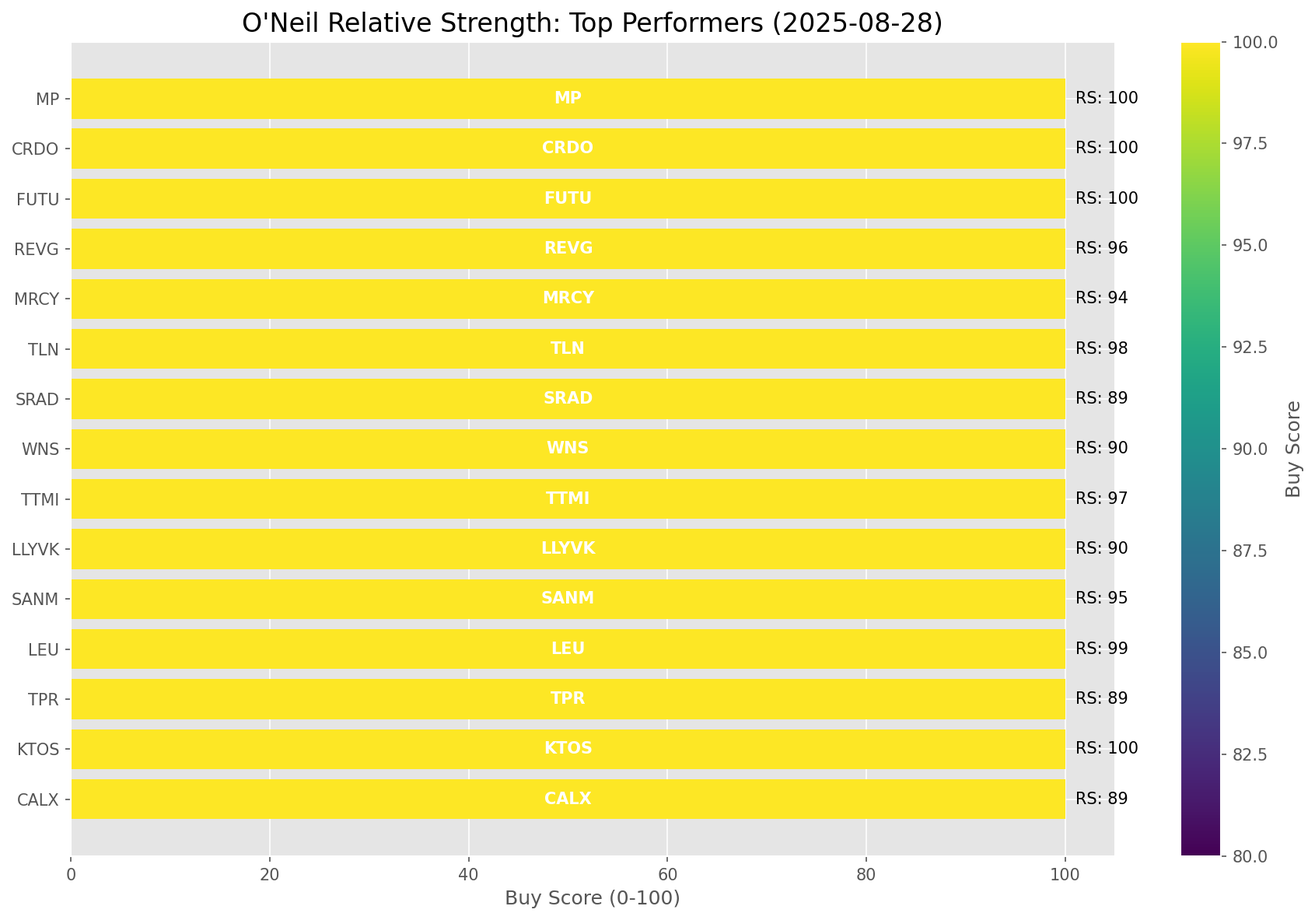
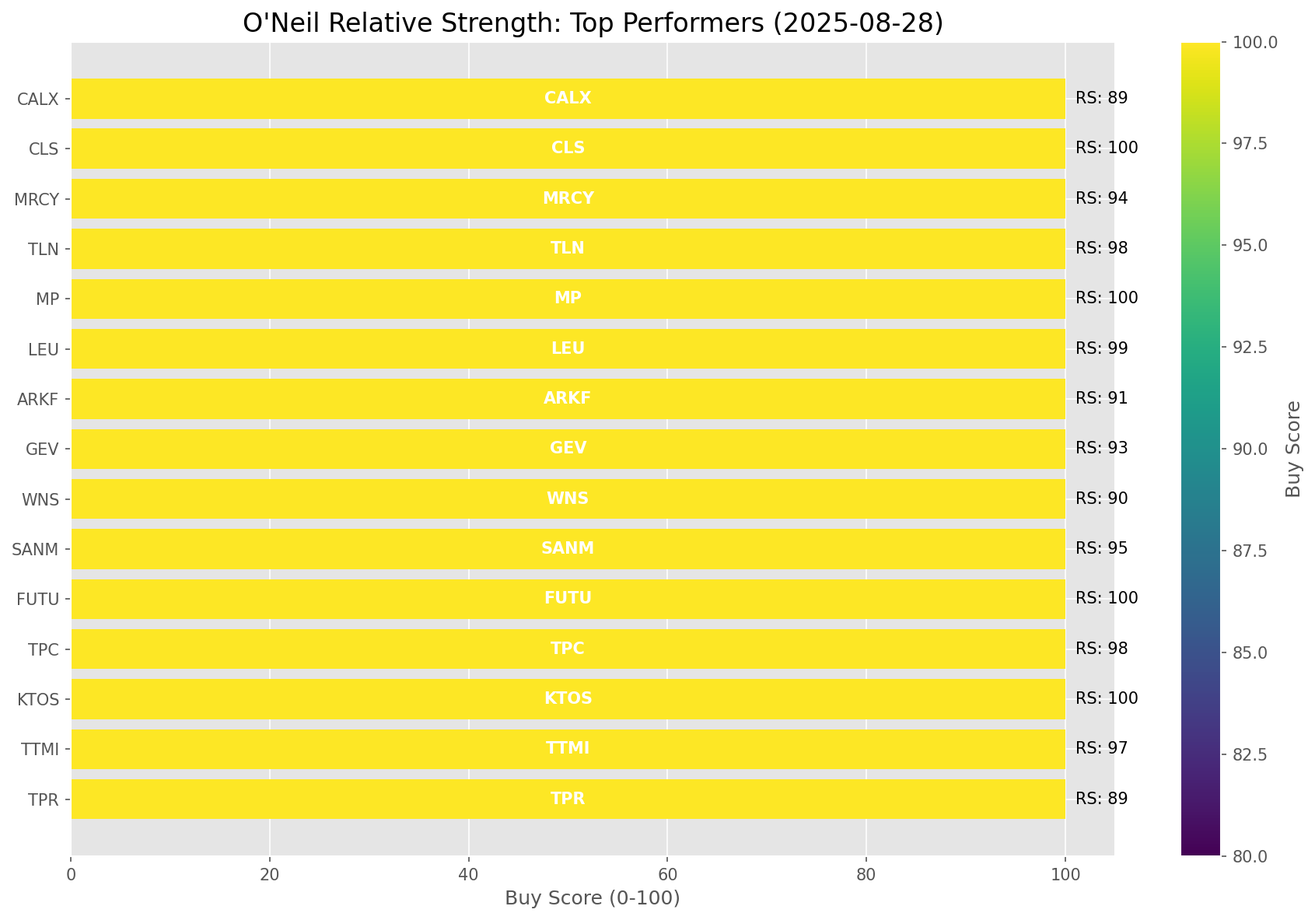
Add market report for 2025-08-28

diff --git a/oneil_relative_strength_report_2025-08-28.md b/oneil_relative_strength_report_2025-08-28.md
@@ -9,11 +9,11 @@
 | Metric | Value |
 |--------|-------|
 | **Market Valuation** | **Overvalued** |
-| **Current Ratio** | 10.51 |
+| **Current Ratio** | 10.52 |
 | **Historical Mean** | 9.94 |
 | **Standard Deviation** | 0.38 |
 | **Z-Score (StdDev from Mean)** | 1.49 |
-| **Total Market Cap** | $318.87 trillion |
+| **Total Market Cap** | $319.36 trillion |
 | **GDP** | $30.35 trillion |
 
 ## **Market Insights**
@@ -49,41 +49,41 @@ Based on William O'Neil's Relative Strength Methodology
 
 | ETF | Strength | RS Rating | Performance | Above Key MAs | Trend | Sector |
 |-----|----------|-----------|-------------|--------------|-------|--------|
-| [ARKK](https://www.tradingview.com/chart/?symbol=ARKK) | 96.0 | 92.0 | 34.79% | 10d ✓, 50d ✓, 200d ✓ | ↗ | Innovation |
+| [ARKK](https://www.tradingview.com/chart/?symbol=ARKK) | 96.0 | 92.0 | 34.39% | 10d ✓, 50d ✓, 200d ✓ | ↗ | Innovation |
+| [ARKF](https://www.tradingview.com/chart/?symbol=ARKF) | 95.5 | 91.0 | 32.21% | 10d ✓, 50d ✓, 200d ✓ | ↗ | Fintech Innovation |
 | [ARKW](https://www.tradingview.com/chart/?symbol=ARKW) | 94.5 | 89.0 | 29.50% | 10d ✓, 50d ✓, 200d ✓ | ↗ | Next Generation Internet |
-| [URA](https://www.tradingview.com/chart/?symbol=URA) | 92.5 | 85.0 | 25.36% | 10d ✓, 50d ✓, 200d ✓ | ↗ | Uranium |
-| [SOXX](https://www.tradingview.com/chart/?symbol=SOXX) | 90.0 | 80.0 | 20.62% | 10d ✓, 50d ✓, 200d ✓ | ↗ | Semiconductors |
-| [BLOK](https://www.tradingview.com/chart/?symbol=BLOK) | 90.0 | 80.0 | 20.83% | 10d ✓, 50d ✓, 200d ✓ | ↗ | Blockchain & Cryptocurrency |
-| [SLV](https://www.tradingview.com/chart/?symbol=SLV) | 87.0 | 74.0 | 16.63% | 10d ✓, 50d ✓, 200d ✓ | ↗ | Silver |
-| [ICLN](https://www.tradingview.com/chart/?symbol=ICLN) | 85.5 | 71.0 | 14.99% | 10d ✓, 50d ✓, 200d ✓ | ↗ | Clean Energy |
-| [JETS](https://www.tradingview.com/chart/?symbol=JETS) | 85.5 | 71.0 | 15.04% | 10d ✓, 50d ✓, 200d ✓ | ↗ | Airlines |
-| [XLK](https://www.tradingview.com/chart/?symbol=XLK) | 85.0 | 70.0 | 14.33% | 10d ✓, 50d ✓, 200d ✓ | ↗ | Technology |
-| [ARKF](https://www.tradingview.com/chart/?symbol=ARKF) | 84.6 | 89.0 | 29.84% | 10d ✗, 50d ✓, 200d ✓ | ↗ | Fintech Innovation |
-| [PAVE](https://www.tradingview.com/chart/?symbol=PAVE) | 83.0 | 66.0 | 12.71% | 10d ✓, 50d ✓, 200d ✓ | ↗ | Infrastructure |
-| [AIQ](https://www.tradingview.com/chart/?symbol=AIQ) | 82.5 | 65.0 | 11.97% | 10d ✓, 50d ✓, 200d ✓ | ↗ | Artificial Intelligence & Technology |
+| [URA](https://www.tradingview.com/chart/?symbol=URA) | 93.0 | 86.0 | 26.60% | 10d ✓, 50d ✓, 200d ✓ | ↗ | Uranium |
+| [SOXX](https://www.tradingview.com/chart/?symbol=SOXX) | 90.5 | 81.0 | 20.84% | 10d ✓, 50d ✓, 200d ✓ | ↗ | Semiconductors |
+| [BLOK](https://www.tradingview.com/chart/?symbol=BLOK) | 90.5 | 81.0 | 20.83% | 10d ✓, 50d ✓, 200d ✓ | ↗ | Blockchain & Cryptocurrency |
+| [SLV](https://www.tradingview.com/chart/?symbol=SLV) | 87.0 | 74.0 | 16.55% | 10d ✓, 50d ✓, 200d ✓ | ↗ | Silver |
+| [ICLN](https://www.tradingview.com/chart/?symbol=ICLN) | 86.0 | 72.0 | 15.15% | 10d ✓, 50d ✓, 200d ✓ | ↗ | Clean Energy |
+| [JETS](https://www.tradingview.com/chart/?symbol=JETS) | 85.5 | 71.0 | 14.78% | 10d ✓, 50d ✓, 200d ✓ | ↗ | Airlines |
+| [XLK](https://www.tradingview.com/chart/?symbol=XLK) | 85.5 | 71.0 | 14.73% | 10d ✓, 50d ✓, 200d ✓ | ↗ | Technology |
+| [AIQ](https://www.tradingview.com/chart/?symbol=AIQ) | 83.0 | 66.0 | 12.15% | 10d ✓, 50d ✓, 200d ✓ | ↗ | Artificial Intelligence & Technology |
+| [PAVE](https://www.tradingview.com/chart/?symbol=PAVE) | 83.0 | 66.0 | 12.39% | 10d ✓, 50d ✓, 200d ✓ | ↗ | Infrastructure |
 | [IYZ](https://www.tradingview.com/chart/?symbol=IYZ) | 80.5 | 61.0 | 10.46% | 10d ✓, 50d ✓, 200d ✓ | ↗ | Telecommunications |
-| [XLC](https://www.tradingview.com/chart/?symbol=XLC) | 80.0 | 60.0 | 10.16% | 10d ✓, 50d ✓, 200d ✓ | ↗ | Communications |
-| [XLY](https://www.tradingview.com/chart/?symbol=XLY) | 78.0 | 56.0 | 8.67% | 10d ✓, 50d ✓, 200d ✓ | ↗ | Consumer Discretionary |
-| [XLI](https://www.tradingview.com/chart/?symbol=XLI) | 76.0 | 52.0 | 7.34% | 10d ✓, 50d ✓, 200d ✓ | ↗ | Industrial |
-| [XLF](https://www.tradingview.com/chart/?symbol=XLF) | 73.5 | 47.0 | 5.84% | 10d ✓, 50d ✓, 200d ✓ | ↗ | Financial |
-| [KWEB](https://www.tradingview.com/chart/?symbol=KWEB) | 71.6 | 63.0 | 11.25% | 10d ✗, 50d ✓, 200d ✓ | ↗ | Chinese Internet |
-| [CIBR](https://www.tradingview.com/chart/?symbol=CIBR) | 70.0 | 40.0 | 3.55% | 10d ✓, 50d ✓, 200d ✓ | ↗ | Cybersecurity |
-| [ARKG](https://www.tradingview.com/chart/?symbol=ARKG) | 68.5 | 77.0 | 18.98% | 10d ✓, 50d ✓, 200d ✓ | ↘ | Genomics |
-| [GLD](https://www.tradingview.com/chart/?symbol=GLD) | 68.5 | 37.0 | 2.70% | 10d ✓, 50d ✓, 200d ✓ | ↗ | Gold |
-| [DBA](https://www.tradingview.com/chart/?symbol=DBA) | 67.0 | 34.0 | 1.99% | 10d ✓, 50d ✓, 200d ✓ | ↗ | Agriculture |
-| [XLU](https://www.tradingview.com/chart/?symbol=XLU) | 62.1 | 44.0 | 4.92% | 10d ✗, 50d ✓, 200d ✓ | ↗ | Utilities |
-| [IBB](https://www.tradingview.com/chart/?symbol=IBB) | 62.0 | 64.0 | 11.64% | 10d ✓, 50d ✓, 200d ✓ | ↘ | Biotechnology |
-| [ITB](https://www.tradingview.com/chart/?symbol=ITB) | 61.1 | 82.0 | 22.54% | 10d ✗, 50d ✓, 200d ✓ | ↘ | Home Construction |
-| [IYT](https://www.tradingview.com/chart/?symbol=IYT) | 57.0 | 54.0 | 8.05% | 10d ✓, 50d ✓, 200d ✓ | ↘ | Transportation |
-| [XLE](https://www.tradingview.com/chart/?symbol=XLE) | 57.0 | 54.0 | 8.03% | 10d ✓, 50d ✓, 200d ✓ | ↘ | Energy |
-| [XLB](https://www.tradingview.com/chart/?symbol=XLB) | 54.5 | 49.0 | 6.38% | 10d ✓, 50d ✓, 200d ✓ | ↘ | Materials |
-| [IYR](https://www.tradingview.com/chart/?symbol=IYR) | 48.0 | 36.0 | 2.56% | 10d ✓, 50d ✓, 200d ✓ | ↘ | Real Estate |
-| [BIL](https://www.tradingview.com/chart/?symbol=BIL) | 42.5 | 25.0 | 0.03% | 10d ✓, 50d ✓, 200d ✓ | ↘ | Short-term Treasuries |
-| [DBC](https://www.tradingview.com/chart/?symbol=DBC) | 41.1 | 42.0 | 4.21% | 10d ✓, 50d ✗, 200d ✓ | ↘ | Commodities |
-| [TLT](https://www.tradingview.com/chart/?symbol=TLT) | 33.8 | 28.0 | 0.84% | 10d ✓, 50d ✓, 200d ✗ | ↘ | Long-term Treasuries |
-| [XLV](https://www.tradingview.com/chart/?symbol=XLV) | 28.4 | 37.0 | 2.77% | 10d ✗, 50d ✓, 200d ✗ | ↘ | Healthcare |
-| [UUP](https://www.tradingview.com/chart/?symbol=UUP) | 21.9 | 24.0 | -0.24% | 10d ✗, 50d ✓, 200d ✗ | ↘ | U.S. Dollar |
-| [XLP](https://www.tradingview.com/chart/?symbol=XLP) | 10.0 | 20.0 | -2.39% | 10d ✗, 50d ✗, 200d ✗ | ↘ | Consumer Staples |
+| [XLC](https://www.tradingview.com/chart/?symbol=XLC) | 80.5 | 61.0 | 10.20% | 10d ✓, 50d ✓, 200d ✓ | ↗ | Communications |
+| [XLY](https://www.tradingview.com/chart/?symbol=XLY) | 78.0 | 56.0 | 8.61% | 10d ✓, 50d ✓, 200d ✓ | ↗ | Consumer Discretionary |
+| [XLI](https://www.tradingview.com/chart/?symbol=XLI) | 75.5 | 51.0 | 7.18% | 10d ✓, 50d ✓, 200d ✓ | ↗ | Industrial |
+| [XLF](https://www.tradingview.com/chart/?symbol=XLF) | 73.5 | 47.0 | 5.73% | 10d ✓, 50d ✓, 200d ✓ | ↗ | Financial |
+| [KWEB](https://www.tradingview.com/chart/?symbol=KWEB) | 72.1 | 64.0 | 11.31% | 10d ✗, 50d ✓, 200d ✓ | ↗ | Chinese Internet |
+| [CIBR](https://www.tradingview.com/chart/?symbol=CIBR) | 70.5 | 41.0 | 3.61% | 10d ✓, 50d ✓, 200d ✓ | ↗ | Cybersecurity |
+| [GLD](https://www.tradingview.com/chart/?symbol=GLD) | 69.0 | 38.0 | 2.71% | 10d ✓, 50d ✓, 200d ✓ | ↗ | Gold |
+| [ARKG](https://www.tradingview.com/chart/?symbol=ARKG) | 68.5 | 77.0 | 18.10% | 10d ✓, 50d ✓, 200d ✓ | ↘ | Genomics |
+| [DBA](https://www.tradingview.com/chart/?symbol=DBA) | 67.5 | 35.0 | 1.99% | 10d ✓, 50d ✓, 200d ✓ | ↗ | Agriculture |
+| [XLU](https://www.tradingview.com/chart/?symbol=XLU) | 62.1 | 44.0 | 4.77% | 10d ✗, 50d ✓, 200d ✓ | ↗ | Utilities |
+| [ITB](https://www.tradingview.com/chart/?symbol=ITB) | 61.1 | 82.0 | 22.35% | 10d ✗, 50d ✓, 200d ✓ | ↘ | Home Construction |
+| [XLE](https://www.tradingview.com/chart/?symbol=XLE) | 57.5 | 55.0 | 8.35% | 10d ✓, 50d ✓, 200d ✓ | ↘ | Energy |
+| [XLB](https://www.tradingview.com/chart/?symbol=XLB) | 54.0 | 48.0 | 6.15% | 10d ✓, 50d ✓, 200d ✓ | ↘ | Materials |
+| [IBB](https://www.tradingview.com/chart/?symbol=IBB) | 52.1 | 64.0 | 11.34% | 10d ✗, 50d ✓, 200d ✓ | ↘ | Biotechnology |
+| [IYR](https://www.tradingview.com/chart/?symbol=IYR) | 48.0 | 36.0 | 2.34% | 10d ✓, 50d ✓, 200d ✓ | ↘ | Real Estate |
+| [IYT](https://www.tradingview.com/chart/?symbol=IYT) | 47.1 | 54.0 | 7.94% | 10d ✗, 50d ✓, 200d ✓ | ↘ | Transportation |
+| [BIL](https://www.tradingview.com/chart/?symbol=BIL) | 42.5 | 25.0 | 0.02% | 10d ✓, 50d ✓, 200d ✓ | ↘ | Short-term Treasuries |
+| [DBC](https://www.tradingview.com/chart/?symbol=DBC) | 41.6 | 43.0 | 4.21% | 10d ✓, 50d ✗, 200d ✓ | ↘ | Commodities |
+| [TLT](https://www.tradingview.com/chart/?symbol=TLT) | 34.8 | 30.0 | 1.04% | 10d ✓, 50d ✓, 200d ✗ | ↘ | Long-term Treasuries |
+| [XLV](https://www.tradingview.com/chart/?symbol=XLV) | 28.9 | 38.0 | 2.74% | 10d ✗, 50d ✓, 200d ✗ | ↘ | Healthcare |
+| [UUP](https://www.tradingview.com/chart/?symbol=UUP) | 22.4 | 25.0 | -0.13% | 10d ✗, 50d ✓, 200d ✗ | ↘ | U.S. Dollar |
+| [XLP](https://www.tradingview.com/chart/?symbol=XLP) | 10.0 | 20.0 | -2.49% | 10d ✗, 50d ✗, 200d ✗ | ↘ | Consumer Staples |
 
 ### **Sector ETF Performance Interpretation**
 
@@ -98,177 +98,191 @@ This table shows the relative strength metrics for different market sectors base
 
 ### **Current Sector Leadership**
 
-The current market leadership is coming from the following sectors: **Innovation, Next Generation Internet, Uranium**.
+The current market leadership is coming from the following sectors: **Innovation, Fintech Innovation, Next Generation Internet**.
 
-The **Innovation** sector (represented by **ARKK**) is showing particularly strong relative strength with an RS rating of 92.0 and performance of 34.79% vs. the S&P 500. This sector is trading above its 10-day, 50-day, 200-day moving average(s). Investors should consider focusing on high RS stocks within these leading sectors for potential outperformance.
+The **Innovation** sector (represented by **ARKK**) is showing particularly strong relative strength with an RS rating of 92.0 and performance of 34.39% vs. the S&P 500. This sector is trading above its 10-day, 50-day, 200-day moving average(s). Investors should consider focusing on high RS stocks within these leading sectors for potential outperformance.
 
 ---
 
 ## **Buy Recommendations**
 
-The following 49 stocks show exceptional relative strength:
+The following 48 stocks show exceptional relative strength:
 
 | RS Rating | Buy Score | Current Price | Chart | Name | Ticker |
 |-----------|-----------|---------------|-------|------|--------|
-| 100 | 100 | $67.86 | [Chart](https://www.tradingview.com/chart/?symbol=KTOS) | Kratos Defense & Security Solutions, Inc. | KTOS |
-| 100 | 100 | $189.25 | [Chart](https://www.tradingview.com/chart/?symbol=FUTU) | Futu Holdings Limited American Depositary Shares | FUTU |
-| 100 | 100 | $129.36 | [Chart](https://www.tradingview.com/chart/?symbol=CRDO) | Credo Technology Group Holding Ltd Ordinary Shares | CRDO |
-| 100 | 100 | $73.23 | [Chart](https://www.tradingview.com/chart/?symbol=MP) | MP Materials Corp. | MP |
-| 100 | 100 | $209.22 | [Chart](https://www.tradingview.com/chart/?symbol=CLS) | Celestica, Inc. | CLS |
-| 100 | 100 | $28.36 | [Chart](https://www.tradingview.com/chart/?symbol=LQDA) | Liquidia Corporation Common Stock | LQDA |
-| 99 | 100 | $207.74 | [Chart](https://www.tradingview.com/chart/?symbol=LEU) | Centrus Energy Corp. | LEU |
-| 99 | 100 | $46.33 | [Chart](https://www.tradingview.com/chart/?symbol=RKLB) | Rocket Lab Corporation Common Stock | RKLB |
-| 98 | 100 | $392.17 | [Chart](https://www.tradingview.com/chart/?symbol=TLN) | Talen Energy Corporation Common Stock | TLN |
+| 100 | 100 | $68.06 | [Chart](https://www.tradingview.com/chart/?symbol=KTOS) | Kratos Defense & Security Solutions, Inc. | KTOS |
+| 100 | 100 | $187.56 | [Chart](https://www.tradingview.com/chart/?symbol=FUTU) | Futu Holdings Limited American Depositary Shares | FUTU |
+| 100 | 100 | $73.03 | [Chart](https://www.tradingview.com/chart/?symbol=MP) | MP Materials Corp. | MP |
+| 100 | 100 | $208.57 | [Chart](https://www.tradingview.com/chart/?symbol=CLS) | Celestica, Inc. | CLS |
+| 100 | 100 | $131.46 | [Chart](https://www.tradingview.com/chart/?symbol=CRDO) | Credo Technology Group Holding Ltd Ordinary Shares | CRDO |
+| 100 | 100 | $28.40 | [Chart](https://www.tradingview.com/chart/?symbol=LQDA) | Liquidia Corporation Common Stock | LQDA |
+| 99 | 100 | $213.37 | [Chart](https://www.tradingview.com/chart/?symbol=LEU) | Centrus Energy Corp. | LEU |
+| 99 | 100 | $46.58 | [Chart](https://www.tradingview.com/chart/?symbol=RKLB) | Rocket Lab Corporation Common Stock | RKLB |
 | 98 | 100 | $58.79 | [Chart](https://www.tradingview.com/chart/?symbol=TPC) | Tutor Perini Corporation | TPC |
+| 98 | 100 | $389.98 | [Chart](https://www.tradingview.com/chart/?symbol=TLN) | Talen Energy Corporation Common Stock | TLN |
 | 98 | 100 | $35.59 | [Chart](https://www.tradingview.com/chart/?symbol=CPS) | Cooper-Standard Automotive Inc. | CPS |
 | 97 | 100 | $46.02 | [Chart](https://www.tradingview.com/chart/?symbol=TTMI) | TTM Technologies Inc | TTMI |
-| 97 | 100 | $126.60 | [Chart](https://www.tradingview.com/chart/?symbol=RBLX) | Roblox Corporation | RBLX |
-| 96 | 100 | $54.56 | [Chart](https://www.tradingview.com/chart/?symbol=REVG) | REV Group, Inc. | REVG |
-| 96 | 100 | $91.00 | [Chart](https://www.tradingview.com/chart/?symbol=LIF) | Life360, Inc. Common Stock | LIF |
-| 96 | 100 | $190.98 | [Chart](https://www.tradingview.com/chart/?symbol=COOP) | Mr. Cooper Group Inc. Common Stock | COOP |
-| 95 | 100 | $119.75 | [Chart](https://www.tradingview.com/chart/?symbol=SANM) | Sanmina  Corp | SANM |
-| 95 | 100 | $363.74 | [Chart](https://www.tradingview.com/chart/?symbol=RCL) | Royal Caribbean Group | RCL |
-| 95 | 100 | $63.56 | [Chart](https://www.tradingview.com/chart/?symbol=VIK) | Viking Holdings Ltd | VIK |
+| 97 | 100 | $126.54 | [Chart](https://www.tradingview.com/chart/?symbol=RBLX) | Roblox Corporation | RBLX |
+| 96 | 100 | $92.40 | [Chart](https://www.tradingview.com/chart/?symbol=LIF) | Life360, Inc. Common Stock | LIF |
+| 95 | 100 | $119.23 | [Chart](https://www.tradingview.com/chart/?symbol=SANM) | Sanmina  Corp | SANM |
+| 95 | 100 | $361.56 | [Chart](https://www.tradingview.com/chart/?symbol=RCL) | Royal Caribbean Group | RCL |
+| 95 | 100 | $63.27 | [Chart](https://www.tradingview.com/chart/?symbol=VIK) | Viking Holdings Ltd | VIK |
 | 94 | 100 | $68.13 | [Chart](https://www.tradingview.com/chart/?symbol=MRCY) | Mercury Systems Inc. | MRCY |
 | 94 | 100 | $98.49 | [Chart](https://www.tradingview.com/chart/?symbol=TPB) | Turning Point Brands, Inc. | TPB |
-| 93 | 100 | $640.86 | [Chart](https://www.tradingview.com/chart/?symbol=GEV) | GE Vernova Inc. | GEV |
-| 90 | 100 | $96.56 | [Chart](https://www.tradingview.com/chart/?symbol=LLYVK) | Liberty Media Corporation Series C Liberty Live Common Stock | LLYVK |
+| 93 | 100 | $639.44 | [Chart](https://www.tradingview.com/chart/?symbol=GEV) | GE Vernova Inc. | GEV |
+| 91 | 100 | $54.12 | [Chart](https://www.tradingview.com/chart/?symbol=ARKF) | ARK Fintech Innovation ETF | ARKF |
 | 90 | 100 | $75.45 | [Chart](https://www.tradingview.com/chart/?symbol=WNS) | WNS (Holdings) Limited | WNS |
-| 89 | 100 | $60.52 | [Chart](https://www.tradingview.com/chart/?symbol=CALX) | CALIX, INC. | CALX |
-| 89 | 100 | $102.14 | [Chart](https://www.tradingview.com/chart/?symbol=TPR) | Tapestry, Inc. Common Stock | TPR |
-| 89 | 100 | $31.29 | [Chart](https://www.tradingview.com/chart/?symbol=SRAD) | Sportradar Group AG Class A Ordinary Shares | SRAD |
-| 88 | 100 | $48.71 | [Chart](https://www.tradingview.com/chart/?symbol=LTM) | LATAM Airlines Group S.A. American Depositary Shares (each representing two thousand (2,000) shares of Common Stock) | LTM |
-| 90 | 99 | $23.07 | [Chart](https://www.tradingview.com/chart/?symbol=BZ) | KANZHUN LIMITED American Depository Shares | BZ |
-| 89 | 99 | $55.88 | [Chart](https://www.tradingview.com/chart/?symbol=SIL) | Global X Silver Miners ETF (NEW) | SIL |
+| 90 | 100 | $31.52 | [Chart](https://www.tradingview.com/chart/?symbol=SRAD) | Sportradar Group AG Class A Ordinary Shares | SRAD |
+| 90 | 100 | $96.56 | [Chart](https://www.tradingview.com/chart/?symbol=LLYVK) | Liberty Media Corporation Series C Liberty Live Common Stock | LLYVK |
+| 90 | 100 | $49.03 | [Chart](https://www.tradingview.com/chart/?symbol=LTM) | LATAM Airlines Group S.A. American Depositary Shares (each representing two thousand (2,000) shares of Common Stock) | LTM |
+| 89 | 100 | $101.67 | [Chart](https://www.tradingview.com/chart/?symbol=TPR) | Tapestry, Inc. Common Stock | TPR |
+| 89 | 100 | $60.81 | [Chart](https://www.tradingview.com/chart/?symbol=CALX) | CALIX, INC. | CALX |
+| 89 | 99 | $55.82 | [Chart](https://www.tradingview.com/chart/?symbol=SIL) | Global X Silver Miners ETF (NEW) | SIL |
 | 89 | 99 | $157.24 | [Chart](https://www.tradingview.com/chart/?symbol=ARKW) | ARK Next Generation Internet ETF | ARKW |
-| 88 | 99 | $97.21 | [Chart](https://www.tradingview.com/chart/?symbol=C) | Citigroup Inc. | C |
+| 88 | 99 | $96.97 | [Chart](https://www.tradingview.com/chart/?symbol=C) | Citigroup Inc. | C |
 | 87 | 99 | $165.07 | [Chart](https://www.tradingview.com/chart/?symbol=VSEC) | VSE Corp | VSEC |
 | 86 | 99 | $269.68 | [Chart](https://www.tradingview.com/chart/?symbol=IDCC) | InterDigital, Inc. | IDCC |
-| 89 | 98 | $17.58 | [Chart](https://www.tradingview.com/chart/?symbol=ARLO) | Arlo Technologies, Inc. | ARLO |
-| 88 | 98 | $54.10 | [Chart](https://www.tradingview.com/chart/?symbol=FHI) | Federated Hermes, Inc. | FHI |
-| 87 | 98 | $23.72 | [Chart](https://www.tradingview.com/chart/?symbol=MAG) | MAG Silver Corp. | MAG |
+| 89 | 98 | $23.04 | [Chart](https://www.tradingview.com/chart/?symbol=BZ) | KANZHUN LIMITED American Depository Shares | BZ |
+| 87 | 98 | $23.69 | [Chart](https://www.tradingview.com/chart/?symbol=MAG) | MAG Silver Corp. | MAG |
+| 85 | 98 | $52.01 | [Chart](https://www.tradingview.com/chart/?symbol=RING) | iShares MSCI Global Gold Miners ETF | RING |
+| 88 | 97 | $17.67 | [Chart](https://www.tradingview.com/chart/?symbol=ARLO) | Arlo Technologies, Inc. | ARLO |
 | 87 | 97 | $197.67 | [Chart](https://www.tradingview.com/chart/?symbol=AWI) | Armstrong World Industries, Inc. | AWI |
-| 84 | 97 | $52.52 | [Chart](https://www.tradingview.com/chart/?symbol=RING) | iShares MSCI Global Gold Miners ETF | RING |
+| 86 | 96 | $53.69 | [Chart](https://www.tradingview.com/chart/?symbol=FHI) | Federated Hermes, Inc. | FHI |
 | 84 | 96 | $31.09 | [Chart](https://www.tradingview.com/chart/?symbol=OR) | OR Royalties Inc. | OR |
-| 83 | 96 | $42.73 | [Chart](https://www.tradingview.com/chart/?symbol=AHR) | American Healthcare REIT, Inc. | AHR |
 | 85 | 95 | $16.40 | [Chart](https://www.tradingview.com/chart/?symbol=EZPW) | Ezcorp Inc | EZPW |
-| 82 | 95 | $27.34 | [Chart](https://www.tradingview.com/chart/?symbol=LAUR) | Laureate Education, Inc. Common Stock | LAUR |
-| 84 | 94 | $28.48 | [Chart](https://www.tradingview.com/chart/?symbol=ACMR) | ACM Research, Inc. Class A Common Stock | ACMR |
+| 82 | 95 | $27.42 | [Chart](https://www.tradingview.com/chart/?symbol=LAUR) | Laureate Education, Inc. Common Stock | LAUR |
+| 82 | 95 | $42.68 | [Chart](https://www.tradingview.com/chart/?symbol=AHR) | American Healthcare REIT, Inc. | AHR |
+| 83 | 93 | $28.34 | [Chart](https://www.tradingview.com/chart/?symbol=ACMR) | ACM Research, Inc. Class A Common Stock | ACMR |
 | 81 | 92 | $252.33 | [Chart](https://www.tradingview.com/chart/?symbol=BAP) | Credicorp LTD | BAP |
-| 81 | 91 | $84.57 | [Chart](https://www.tradingview.com/chart/?symbol=SAH) | Sonic Automotive, Inc. | SAH |
+| 81 | 92 | $26.34 | [Chart](https://www.tradingview.com/chart/?symbol=TFPM) | Triple Flag Precious Metals Corp. | TFPM |
 | 81 | 91 | $49.95 | [Chart](https://www.tradingview.com/chart/?symbol=FAST) | Fastenal Co | FAST |
-| 81 | 91 | $221.16 | [Chart](https://www.tradingview.com/chart/?symbol=AN) | AutoNation, Inc. | AN |
-| 80 | 91 | $26.34 | [Chart](https://www.tradingview.com/chart/?symbol=TFPM) | Triple Flag Precious Metals Corp. | TFPM |
+| 81 | 91 | $84.57 | [Chart](https://www.tradingview.com/chart/?symbol=SAH) | Sonic Automotive, Inc. | SAH |
+| 80 | 90 | $219.94 | [Chart](https://www.tradingview.com/chart/?symbol=AN) | AutoNation, Inc. | AN |
 
 ---
 
 
 ## **Sell Recommendations**
 
-The following 100 stocks show deteriorating relative strength:
+The following 115 stocks show deteriorating relative strength:
 
 | RS Rating | Sell Score | Current Price | Chart | Name | Ticker |
 |-----------|------------|---------------|-------|------|--------|
-| 1 | 100 | $17.53 | [Chart](https://www.tradingview.com/chart/?symbol=DUST) | Direxion Daily Gold Miners Index Bear 2X Shares | DUST |
-| 2 | 100 | $23.53 | [Chart](https://www.tradingview.com/chart/?symbol=TECS) | Direxion Daily Technology Bear 3x Shares | TECS |
-| 2 | 100 | $21.83 | [Chart](https://www.tradingview.com/chart/?symbol=ZSL) | ProShares UltraShort Silver | ZSL |
+| 1 | 100 | $23.32 | [Chart](https://www.tradingview.com/chart/?symbol=TECS) | Direxion Daily Technology Bear 3x Shares | TECS |
+| 1 | 100 | $17.66 | [Chart](https://www.tradingview.com/chart/?symbol=DUST) | Direxion Daily Gold Miners Index Bear 2X Shares | DUST |
 | 2 | 100 | $36.61 | [Chart](https://www.tradingview.com/chart/?symbol=TWM) | ProShares UltraShort Russell2000 | TWM |
 | 2 | 100 | $15.10 | [Chart](https://www.tradingview.com/chart/?symbol=KRNT) | Kornit Digital Ltd. | KRNT |
+| 2 | 100 | $21.89 | [Chart](https://www.tradingview.com/chart/?symbol=ZSL) | ProShares UltraShort Silver | ZSL |
+| 2 | 100 | $15.64 | [Chart](https://www.tradingview.com/chart/?symbol=SPT) | Sprout Social, Inc Class A Common Stock | SPT |
 | 3 | 100 | $21.45 | [Chart](https://www.tradingview.com/chart/?symbol=CLW) | Clearwater Paper Corporation | CLW |
-| 3 | 100 | $45.17 | [Chart](https://www.tradingview.com/chart/?symbol=ONON) | On Holding AG | ONON |
-| 4 | 100 | $256.35 | [Chart](https://www.tradingview.com/chart/?symbol=ACN) | Accenture PLC | ACN |
-| 4 | 100 | $38.11 | [Chart](https://www.tradingview.com/chart/?symbol=SDOW) | ProShares UltraPro Short Dow 30 | SDOW |
-| 4 | 100 | $36.78 | [Chart](https://www.tradingview.com/chart/?symbol=IOT) | Samsara Inc. | IOT |
-| 5 | 100 | $47.55 | [Chart](https://www.tradingview.com/chart/?symbol=EXAS) | Exact Sciences Corp | EXAS |
-| 5 | 100 | $11.46 | [Chart](https://www.tradingview.com/chart/?symbol=CHPT) | ChargePoint Holdings, Inc. | CHPT |
+| 3 | 100 | $44.78 | [Chart](https://www.tradingview.com/chart/?symbol=ONON) | On Holding AG | ONON |
+| 4 | 100 | $38.09 | [Chart](https://www.tradingview.com/chart/?symbol=SDOW) | ProShares UltraPro Short Dow 30 | SDOW |
+| 4 | 100 | $36.41 | [Chart](https://www.tradingview.com/chart/?symbol=IOT) | Samsara Inc. | IOT |
+| 5 | 100 | $47.53 | [Chart](https://www.tradingview.com/chart/?symbol=EXAS) | Exact Sciences Corp | EXAS |
+| 5 | 100 | $11.78 | [Chart](https://www.tradingview.com/chart/?symbol=CHPT) | ChargePoint Holdings, Inc. | CHPT |
+| 6 | 100 | $16.04 | [Chart](https://www.tradingview.com/chart/?symbol=BTAL) | AGF U.S. Market Neutral Anti-Beta Fund | BTAL |
 | 6 | 100 | $15.25 | [Chart](https://www.tradingview.com/chart/?symbol=PRO) | Pros Holdings, Inc. | PRO |
-| 6 | 100 | $16.08 | [Chart](https://www.tradingview.com/chart/?symbol=BTAL) | AGF U.S. Market Neutral Anti-Beta Fund | BTAL |
-| 7 | 100 | $355.95 | [Chart](https://www.tradingview.com/chart/?symbol=ADBE) | Adobe Inc. | ADBE |
+| 7 | 100 | $17.95 | [Chart](https://www.tradingview.com/chart/?symbol=DJT) | Trump Media & Technology Group Corp. Common Stock | DJT |
 | 7 | 100 | $19.00 | [Chart](https://www.tradingview.com/chart/?symbol=GPCR) | Structure Therapeutics Inc. American Depositary Shares | GPCR |
-| 7 | 100 | $17.94 | [Chart](https://www.tradingview.com/chart/?symbol=DJT) | Trump Media & Technology Group Corp. Common Stock | DJT |
+| 7 | 100 | $353.23 | [Chart](https://www.tradingview.com/chart/?symbol=ADBE) | Adobe Inc. | ADBE |
 | 10 | 100 | $59.65 | [Chart](https://www.tradingview.com/chart/?symbol=ATKR) | Atkore Inc. | ATKR |
-| 11 | 100 | $38.37 | [Chart](https://www.tradingview.com/chart/?symbol=SH) | ProShares Short S&P500 | SH |
+| 11 | 100 | $38.32 | [Chart](https://www.tradingview.com/chart/?symbol=SH) | ProShares Short S&P500 | SH |
 | 14 | 100 | $15.25 | [Chart](https://www.tradingview.com/chart/?symbol=CHCT) | Community Healthcare Trust Incorporated Common Stock, $0.01 par value per share | CHCT |
 | 14 | 100 | $17.14 | [Chart](https://www.tradingview.com/chart/?symbol=CTO) | CTO Realty Growth, Inc. | CTO |
-| 17 | 100 | $47.03 | [Chart](https://www.tradingview.com/chart/?symbol=EDU) | New Oriental Education and Technology Group, Inc. American Depositary Shares (each representing ten (10) Common Shares) | EDU |
-| 5 | 99 | $15.60 | [Chart](https://www.tradingview.com/chart/?symbol=MCS) | The Marcus Corporation | MCS |
+| 18 | 100 | $47.22 | [Chart](https://www.tradingview.com/chart/?symbol=EDU) | New Oriental Education and Technology Group, Inc. American Depositary Shares (each representing ten (10) Common Shares) | EDU |
 | 5 | 99 | $20.74 | [Chart](https://www.tradingview.com/chart/?symbol=ERY) | Direxion Daily Energy Bear 2X Shares | ERY |
-| 15 | 99 | $10.06 | [Chart](https://www.tradingview.com/chart/?symbol=NMZ) | Nuveen Municipal High Income Opportunity Fund | NMZ |
+| 5 | 99 | $15.60 | [Chart](https://www.tradingview.com/chart/?symbol=MCS) | The Marcus Corporation | MCS |
+| 16 | 99 | $10.05 | [Chart](https://www.tradingview.com/chart/?symbol=NMZ) | Nuveen Municipal High Income Opportunity Fund | NMZ |
 | 8 | 98 | $25.13 | [Chart](https://www.tradingview.com/chart/?symbol=GDEN) | Golden Entertainment, Inc. Common Stock | GDEN |
-| 9 | 98 | $33.31 | [Chart](https://www.tradingview.com/chart/?symbol=TECK) | Teck Resources Limited | TECK |
-| 14 | 98 | $38.79 | [Chart](https://www.tradingview.com/chart/?symbol=UDR) | UDR, Inc. | UDR |
-| 8 | 97 | $11.35 | [Chart](https://www.tradingview.com/chart/?symbol=PATH) | UiPath, Inc. | PATH |
-| 11 | 97 | $32.66 | [Chart](https://www.tradingview.com/chart/?symbol=PSQ) | ProShares Short QQQ | PSQ |
-| 12 | 97 | $10.02 | [Chart](https://www.tradingview.com/chart/?symbol=SPDN) | Direxion Daily S&P 500 Bear 1X Shares | SPDN |
-| 12 | 97 | $155.77 | [Chart](https://www.tradingview.com/chart/?symbol=PG) | Procter & Gamble Company | PG |
+| 14 | 98 | $22.87 | [Chart](https://www.tradingview.com/chart/?symbol=DIN) | Dine Brands Global, Inc. | DIN |
+| 11 | 97 | $32.57 | [Chart](https://www.tradingview.com/chart/?symbol=PSQ) | ProShares Short QQQ | PSQ |
+| 12 | 97 | $155.55 | [Chart](https://www.tradingview.com/chart/?symbol=PG) | Procter & Gamble Company | PG |
+| 14 | 97 | $38.77 | [Chart](https://www.tradingview.com/chart/?symbol=UDR) | UDR, Inc. | UDR |
 | 14 | 97 | $10.42 | [Chart](https://www.tradingview.com/chart/?symbol=OEC) | Orion S.A. | OEC |
+| 4 | 96 | $31.34 | [Chart](https://www.tradingview.com/chart/?symbol=YELP) | YELP INC. | YELP |
+| 8 | 96 | $11.31 | [Chart](https://www.tradingview.com/chart/?symbol=PATH) | UiPath, Inc. | PATH |
+| 13 | 96 | $10.02 | [Chart](https://www.tradingview.com/chart/?symbol=SPDN) | Direxion Daily S&P 500 Bear 1X Shares | SPDN |
 | 13 | 96 | $24.91 | [Chart](https://www.tradingview.com/chart/?symbol=DOG) | ProShares Short Dow30 | DOG |
-| 13 | 96 | $22.81 | [Chart](https://www.tradingview.com/chart/?symbol=DIN) | Dine Brands Global, Inc. | DIN |
-| 9 | 95 | $786.02 | [Chart](https://www.tradingview.com/chart/?symbol=EQIX) | Equinix, Inc. Common Stock REIT | EQIX |
-| 11 | 95 | $28.70 | [Chart](https://www.tradingview.com/chart/?symbol=CNX) | CNX Resources Corporation | CNX |
-| 12 | 95 | $30.86 | [Chart](https://www.tradingview.com/chart/?symbol=INVH) | Invitation Homes Inc. Common Stock | INVH |
-| 16 | 95 | $110.56 | [Chart](https://www.tradingview.com/chart/?symbol=CPT) | Camden Property Trust | CPT |
-| 7 | 94 | $175.49 | [Chart](https://www.tradingview.com/chart/?symbol=TEAM) | Atlassian Corporation Class A Common Stock | TEAM |
-| 7 | 94 | $20.52 | [Chart](https://www.tradingview.com/chart/?symbol=KVUE) | Kenvue Inc. | KVUE |
-| 10 | 94 | $129.06 | [Chart](https://www.tradingview.com/chart/?symbol=KMB) | Kimberly-Clark Corp. | KMB |
-| 11 | 94 | $83.65 | [Chart](https://www.tradingview.com/chart/?symbol=CL) | Colgate-Palmolive Company | CL |
+| 9 | 95 | $785.24 | [Chart](https://www.tradingview.com/chart/?symbol=EQIX) | Equinix, Inc. Common Stock REIT | EQIX |
+| 12 | 95 | $26.57 | [Chart](https://www.tradingview.com/chart/?symbol=TWST) | Twist Bioscience Corporation Common Stock | TWST |
+| 12 | 95 | $30.80 | [Chart](https://www.tradingview.com/chart/?symbol=INVH) | Invitation Homes Inc. Common Stock | INVH |
+| 15 | 95 | $142.07 | [Chart](https://www.tradingview.com/chart/?symbol=EXR) | Extra Space Storage, Inc. | EXR |
+| 22 | 95 | $57.62 | [Chart](https://www.tradingview.com/chart/?symbol=BMRN) | BioMarin Pharmaceuticals Inc | BMRN |
+| 12 | 94 | $28.95 | [Chart](https://www.tradingview.com/chart/?symbol=CNX) | CNX Resources Corporation | CNX |
 | 15 | 94 | $91.87 | [Chart](https://www.tradingview.com/chart/?symbol=IRM) | Iron Mountain Inc. | IRM |
+| 17 | 94 | $110.56 | [Chart](https://www.tradingview.com/chart/?symbol=CPT) | Camden Property Trust | CPT |
+| 7 | 93 | $20.52 | [Chart](https://www.tradingview.com/chart/?symbol=KVUE) | Kenvue Inc. | KVUE |
+| 7 | 93 | $175.97 | [Chart](https://www.tradingview.com/chart/?symbol=TEAM) | Atlassian Corporation Class A Common Stock | TEAM |
 | 8 | 93 | $116.02 | [Chart](https://www.tradingview.com/chart/?symbol=IPAR) | Interparfums, Inc. Common Stock | IPAR |
-| 14 | 93 | $27.08 | [Chart](https://www.tradingview.com/chart/?symbol=TWST) | Twist Bioscience Corporation Common Stock | TWST |
+| 10 | 93 | $128.66 | [Chart](https://www.tradingview.com/chart/?symbol=KMB) | Kimberly-Clark Corp. | KMB |
+| 13 | 93 | $243.96 | [Chart](https://www.tradingview.com/chart/?symbol=EFX) | Equifax, Incorporated | EFX |
+| 14 | 93 | $193.59 | [Chart](https://www.tradingview.com/chart/?symbol=AVB) | AvalonBay Communities, Inc. | AVB |
 | 15 | 93 | $105.31 | [Chart](https://www.tradingview.com/chart/?symbol=MATX) | Matsons, Inc. | MATX |
+| 16 | 93 | $30.98 | [Chart](https://www.tradingview.com/chart/?symbol=EPRT) | Essential Properties Realty Trust, Inc. | EPRT |
 | 17 | 93 | $19.21 | [Chart](https://www.tradingview.com/chart/?symbol=AVBP) | ArriVent BioPharma, Inc. Common Stock | AVBP |
-| 9 | 92 | $205.28 | [Chart](https://www.tradingview.com/chart/?symbol=MMC) | Marsh & McLennan Companies, Inc. | MMC |
-| 16 | 92 | $141.57 | [Chart](https://www.tradingview.com/chart/?symbol=EXR) | Extra Space Storage, Inc. | EXR |
+| 9 | 92 | $204.66 | [Chart](https://www.tradingview.com/chart/?symbol=MMC) | Marsh & McLennan Companies, Inc. | MMC |
+| 17 | 92 | $14.68 | [Chart](https://www.tradingview.com/chart/?symbol=GBDC) | Golub Capital BDC, Inc. | GBDC |
 | 13 | 91 | $26.85 | [Chart](https://www.tradingview.com/chart/?symbol=THR) | THERMON GROUP HOLDINGS, INC. | THR |
 | 16 | 91 | $25.90 | [Chart](https://www.tradingview.com/chart/?symbol=FCPT) | Four Corners Property Trust, Inc. | FCPT |
 | 20 | 91 | $35.07 | [Chart](https://www.tradingview.com/chart/?symbol=RGR) | Sturm, Ruger & Company, Inc. | RGR |
 | 20 | 90 | $10.46 | [Chart](https://www.tradingview.com/chart/?symbol=NMFC) | NEW MOUNTAIN FINANCE CORPORATION | NMFC |
-| 21 | 90 | $126.62 | [Chart](https://www.tradingview.com/chart/?symbol=ICUI) | ICU Medical Inc | ICUI |
-| 12 | 89 | $271.84 | [Chart](https://www.tradingview.com/chart/?symbol=CB) | Chubb Limited | CB |
-| 13 | 89 | $14.82 | [Chart](https://www.tradingview.com/chart/?symbol=OSPN) | OneSpan Inc. Common Stock | OSPN |
-| 14 | 89 | $245.98 | [Chart](https://www.tradingview.com/chart/?symbol=EFX) | Equifax, Incorporated | EFX |
-| 15 | 89 | $50.97 | [Chart](https://www.tradingview.com/chart/?symbol=DT) | Dynatrace, Inc. | DT |
-| 18 | 89 | $79.57 | [Chart](https://www.tradingview.com/chart/?symbol=K) | Kellanova | K |
+| 11 | 89 | $65.10 | [Chart](https://www.tradingview.com/chart/?symbol=CBZ) | CBIZ, Inc. | CBZ |
+| 13 | 89 | $26.87 | [Chart](https://www.tradingview.com/chart/?symbol=SARO) | StandardAero, Inc. | SARO |
+| 18 | 89 | $79.53 | [Chart](https://www.tradingview.com/chart/?symbol=K) | Kellanova | K |
 | 18 | 89 | $75.11 | [Chart](https://www.tradingview.com/chart/?symbol=AWR) | American States Water Company | AWR |
 | 19 | 89 | $10.93 | [Chart](https://www.tradingview.com/chart/?symbol=MQY) | Blackrock Muni Yield Quality Fund, Inc | MQY |
-| 21 | 89 | $27.10 | [Chart](https://www.tradingview.com/chart/?symbol=WKC) | World Kinect Corporation | WKC |
-| 21 | 89 | $23.35 | [Chart](https://www.tradingview.com/chart/?symbol=JANX) | Janux Therapeutics, Inc. Common Stock | JANX |
-| 23 | 89 | $29.77 | [Chart](https://www.tradingview.com/chart/?symbol=MGPI) | MGP Ingredients Inc | MGPI |
-| 14 | 88 | $68.98 | [Chart](https://www.tradingview.com/chart/?symbol=HSIC) | Henry Schein Inc | HSIC |
-| 15 | 87 | $35.41 | [Chart](https://www.tradingview.com/chart/?symbol=AMH) | AMERICAN HOMES 4 RENT | AMH |
-| 18 | 87 | $46.35 | [Chart](https://www.tradingview.com/chart/?symbol=TRUP) | Trupanion, Inc. | TRUP |
-| 21 | 87 | $10.26 | [Chart](https://www.tradingview.com/chart/?symbol=NMCO) | Nuveen Municipal Credit Opportunities Fund | NMCO |
-| 21 | 87 | $10.20 | [Chart](https://www.tradingview.com/chart/?symbol=MUC) | BLACKROCK MUNIHOLDINGS CALIFORNIA QUALITY FUND, INC | MUC |
-| 16 | 86 | $44.24 | [Chart](https://www.tradingview.com/chart/?symbol=EPI) | WisdomTree India Earnings Fund ETF | EPI |
-| 19 | 86 | $14.72 | [Chart](https://www.tradingview.com/chart/?symbol=GBDC) | Golub Capital BDC, Inc. | GBDC |
-| 25 | 86 | $25.09 | [Chart](https://www.tradingview.com/chart/?symbol=VRIG) | Invesco Variable Rate Investment Grade ETF | VRIG |
-| 22 | 85 | $27.03 | [Chart](https://www.tradingview.com/chart/?symbol=CZR) | Caesars Entertainment, Inc. Common Stock | CZR |
-| 23 | 85 | $25.89 | [Chart](https://www.tradingview.com/chart/?symbol=WY) | Weyerhaeuser Company | WY |
-| 25 | 85 | $23.07 | [Chart](https://www.tradingview.com/chart/?symbol=BSJP) | Invesco BulletShares 2025 High Yield Corporate Bond ETF | BSJP |
-| 21 | 84 | $118.88 | [Chart](https://www.tradingview.com/chart/?symbol=RGEN) | Repligen Corp | RGEN |
+| 22 | 89 | $126.62 | [Chart](https://www.tradingview.com/chart/?symbol=ICUI) | ICU Medical Inc | ICUI |
+| 12 | 88 | $271.72 | [Chart](https://www.tradingview.com/chart/?symbol=CB) | Chubb Limited | CB |
+| 14 | 88 | $14.82 | [Chart](https://www.tradingview.com/chart/?symbol=OSPN) | OneSpan Inc. Common Stock | OSPN |
+| 15 | 88 | $51.00 | [Chart](https://www.tradingview.com/chart/?symbol=DT) | Dynatrace, Inc. | DT |
+| 18 | 88 | $21.02 | [Chart](https://www.tradingview.com/chart/?symbol=TDC) | TERADATA CORPORATION | TDC |
+| 22 | 88 | $23.35 | [Chart](https://www.tradingview.com/chart/?symbol=JANX) | Janux Therapeutics, Inc. Common Stock | JANX |
+| 22 | 88 | $27.10 | [Chart](https://www.tradingview.com/chart/?symbol=WKC) | World Kinect Corporation | WKC |
+| 23 | 88 | $22.39 | [Chart](https://www.tradingview.com/chart/?symbol=CURB) | Curbline Properties Corp. | CURB |
+| 24 | 88 | $29.77 | [Chart](https://www.tradingview.com/chart/?symbol=MGPI) | MGP Ingredients Inc | MGPI |
+| 15 | 87 | $35.35 | [Chart](https://www.tradingview.com/chart/?symbol=AMH) | AMERICAN HOMES 4 RENT | AMH |
+| 17 | 87 | $68.94 | [Chart](https://www.tradingview.com/chart/?symbol=HSIC) | Henry Schein Inc | HSIC |
+| 20 | 87 | $26.64 | [Chart](https://www.tradingview.com/chart/?symbol=CZR) | Caesars Entertainment, Inc. Common Stock | CZR |
+| 20 | 87 | $80.00 | [Chart](https://www.tradingview.com/chart/?symbol=IR) | Ingersoll Rand Inc. Common Stock | IR |
+| 20 | 87 | $119.18 | [Chart](https://www.tradingview.com/chart/?symbol=RGEN) | Repligen Corp | RGEN |
+| 21 | 87 | $37.00 | [Chart](https://www.tradingview.com/chart/?symbol=APGE) | Apogee Therapeutics, Inc. Common Stock | APGE |
+| 23 | 87 | $41.45 | [Chart](https://www.tradingview.com/chart/?symbol=WHD) | Cactus, Inc. | WHD |
+| 16 | 86 | $44.31 | [Chart](https://www.tradingview.com/chart/?symbol=EPI) | WisdomTree India Earnings Fund ETF | EPI |
+| 19 | 86 | $46.35 | [Chart](https://www.tradingview.com/chart/?symbol=TRUP) | Trupanion, Inc. | TRUP |
+| 22 | 86 | $10.26 | [Chart](https://www.tradingview.com/chart/?symbol=NMCO) | Nuveen Municipal Credit Opportunities Fund | NMCO |
+| 22 | 86 | $10.20 | [Chart](https://www.tradingview.com/chart/?symbol=MUC) | BLACKROCK MUNIHOLDINGS CALIFORNIA QUALITY FUND, INC | MUC |
+| 23 | 86 | $135.15 | [Chart](https://www.tradingview.com/chart/?symbol=DVA) | DaVita Inc. | DVA |
+| 31 | 86 | $24.00 | [Chart](https://www.tradingview.com/chart/?symbol=RTO) | Rentokil Initial plc American Depositary Shares (each representing five (5) Ordinary Shares) | RTO |
+| 17 | 85 | $14.15 | [Chart](https://www.tradingview.com/chart/?symbol=RDY) | Dr. Reddy's Laboratories Limited American Depositary Shares | RDY |
+| 26 | 85 | $25.09 | [Chart](https://www.tradingview.com/chart/?symbol=VRIG) | Invesco Variable Rate Investment Grade ETF | VRIG |
+| 18 | 84 | $37.25 | [Chart](https://www.tradingview.com/chart/?symbol=VNO) | Vornado Realty Trust | VNO |
+| 23 | 84 | $25.74 | [Chart](https://www.tradingview.com/chart/?symbol=WY) | Weyerhaeuser Company | WY |
+| 26 | 84 | $23.07 | [Chart](https://www.tradingview.com/chart/?symbol=BSJP) | Invesco BulletShares 2025 High Yield Corporate Bond ETF | BSJP |
+| 28 | 84 | $15.85 | [Chart](https://www.tradingview.com/chart/?symbol=RXO) | RXO, Inc. | RXO |
 | 20 | 83 | $82.06 | [Chart](https://www.tradingview.com/chart/?symbol=AGO) | Assured Guaranty, LTD | AGO |
-| 21 | 83 | $69.95 | [Chart](https://www.tradingview.com/chart/?symbol=PYPL) | PayPal Holdings, Inc. Common Stock | PYPL |
-| 22 | 83 | $11.06 | [Chart](https://www.tradingview.com/chart/?symbol=FPI) | Farmland Partners Inc. | FPI |
+| 21 | 83 | $21.46 | [Chart](https://www.tradingview.com/chart/?symbol=KMT) | Kennametal Inc. | KMT |
+| 23 | 82 | $11.06 | [Chart](https://www.tradingview.com/chart/?symbol=FPI) | Farmland Partners Inc. | FPI |
 | 27 | 82 | $63.88 | [Chart](https://www.tradingview.com/chart/?symbol=ZROZ) | PIMCO 25+ Year Zero Coupon U.S. Treasury Index Exchange-Traded Fund | ZROZ |
-| 25 | 81 | $29.66 | [Chart](https://www.tradingview.com/chart/?symbol=AMAL) | Amalgamated Financial Corp. Common Stock (DE) | AMAL |
-| 25 | 81 | $95.12 | [Chart](https://www.tradingview.com/chart/?symbol=GKOS) | Glaukos Corporation | GKOS |
-| 26 | 81 | $111.55 | [Chart](https://www.tradingview.com/chart/?symbol=PPG) | PPG Industries, Inc. | PPG |
-| 27 | 81 | $41.74 | [Chart](https://www.tradingview.com/chart/?symbol=WHD) | Cactus, Inc. | WHD |
-| 27 | 81 | $137.56 | [Chart](https://www.tradingview.com/chart/?symbol=DVA) | DaVita Inc. | DVA |
-| 29 | 81 | $40.57 | [Chart](https://www.tradingview.com/chart/?symbol=WLY) | John Wiley & Sons, Inc. Class A | WLY |
-| 34 | 80 | $102.27 | [Chart](https://www.tradingview.com/chart/?symbol=BNTX) | BioNTech SE American Depositary Share | BNTX |
-| 26 | 79 | $20.89 | [Chart](https://www.tradingview.com/chart/?symbol=BKLN) | Invesco Senior Loan ETF | BKLN |
-| 37 | 79 | $73.43 | [Chart](https://www.tradingview.com/chart/?symbol=GEHC) | GE HealthCare Technologies Inc. Common Stock | GEHC |
-| 28 | 78 | $285.63 | [Chart](https://www.tradingview.com/chart/?symbol=AMGN) | Amgen Inc | AMGN |
-| 30 | 78 | $37.38 | [Chart](https://www.tradingview.com/chart/?symbol=TMF) | Direxion Daily 20+ Year Treasury Bull 3X Shares (based on the NYSE 20 Year Plus Treasury Bond Index; symbol AXTWEN) | TMF |
-| 28 | 76 | $18.89 | [Chart](https://www.tradingview.com/chart/?symbol=OWL) | Blue Owl Capital Inc. | OWL |
-| 29 | 75 | $20.07 | [Chart](https://www.tradingview.com/chart/?symbol=STWD) | STARWOOD PROPERTY TRUST, INC. | STWD |
-| 32 | 75 | $48.76 | [Chart](https://www.tradingview.com/chart/?symbol=IP) | International Paper Co. | IP |
-| 30 | 73 | $129.91 | [Chart](https://www.tradingview.com/chart/?symbol=ABNB) | Airbnb, Inc. Class A Common Stock | ABNB |
-| 35 | 72 | $16.71 | [Chart](https://www.tradingview.com/chart/?symbol=QYLD) | Global X Funds Global X NASDAQ-100 Covered Call ETF | QYLD |
-| 31 | 71 | $42.13 | [Chart](https://www.tradingview.com/chart/?symbol=NNN) | NNN REIT, Inc. | NNN |
-| 33 | 71 | $15.91 | [Chart](https://www.tradingview.com/chart/?symbol=NCDL) | Nuveen Churchill Direct Lending Corp | NCDL |
-| 38 | 65 | $164.24 | [Chart](https://www.tradingview.com/chart/?symbol=AMAT) | Applied Materials Inc | AMAT |
+| 19 | 81 | $72.06 | [Chart](https://www.tradingview.com/chart/?symbol=ADC) | Agree Realty Corporation | ADC |
+| 21 | 81 | $168.77 | [Chart](https://www.tradingview.com/chart/?symbol=DLR) | Digital Realty Trust, Inc. | DLR |
+| 23 | 81 | $70.16 | [Chart](https://www.tradingview.com/chart/?symbol=PYPL) | PayPal Holdings, Inc. Common Stock | PYPL |
+| 25 | 81 | $111.32 | [Chart](https://www.tradingview.com/chart/?symbol=PPG) | PPG Industries, Inc. | PPG |
+| 26 | 80 | $95.12 | [Chart](https://www.tradingview.com/chart/?symbol=GKOS) | Glaukos Corporation | GKOS |
+| 26 | 80 | $29.66 | [Chart](https://www.tradingview.com/chart/?symbol=AMAL) | Amalgamated Financial Corp. Common Stock (DE) | AMAL |
+| 30 | 80 | $40.57 | [Chart](https://www.tradingview.com/chart/?symbol=WLY) | John Wiley & Sons, Inc. Class A | WLY |
+| 35 | 79 | $102.28 | [Chart](https://www.tradingview.com/chart/?symbol=BNTX) | BioNTech SE American Depositary Share | BNTX |
+| 27 | 78 | $20.89 | [Chart](https://www.tradingview.com/chart/?symbol=BKLN) | Invesco Senior Loan ETF | BKLN |
+| 29 | 78 | $181.31 | [Chart](https://www.tradingview.com/chart/?symbol=DOV) | Dover Corporation | DOV |
+| 28 | 77 | $285.17 | [Chart](https://www.tradingview.com/chart/?symbol=AMGN) | Amgen Inc | AMGN |
+| 38 | 77 | $73.56 | [Chart](https://www.tradingview.com/chart/?symbol=GEHC) | GE HealthCare Technologies Inc. Common Stock | GEHC |
+| 28 | 76 | $18.84 | [Chart](https://www.tradingview.com/chart/?symbol=OWL) | Blue Owl Capital Inc. | OWL |
+| 32 | 75 | $48.67 | [Chart](https://www.tradingview.com/chart/?symbol=IP) | International Paper Co. | IP |
+| 29 | 74 | $20.06 | [Chart](https://www.tradingview.com/chart/?symbol=STWD) | STARWOOD PROPERTY TRUST, INC. | STWD |
+| 31 | 72 | $129.93 | [Chart](https://www.tradingview.com/chart/?symbol=ABNB) | Airbnb, Inc. Class A Common Stock | ABNB |
+| 31 | 71 | $42.08 | [Chart](https://www.tradingview.com/chart/?symbol=NNN) | NNN REIT, Inc. | NNN |
+| 34 | 70 | $15.91 | [Chart](https://www.tradingview.com/chart/?symbol=NCDL) | Nuveen Churchill Direct Lending Corp | NCDL |
+| 39 | 69 | $18.41 | [Chart](https://www.tradingview.com/chart/?symbol=ZTO) | ZTO Express (Cayman) Inc. American Depositary Shares, each representing one Class A ordinary share | ZTO |
+| 39 | 63 | $164.50 | [Chart](https://www.tradingview.com/chart/?symbol=AMAT) | Applied Materials Inc | AMAT |
 
 ## **Methodology**
 
